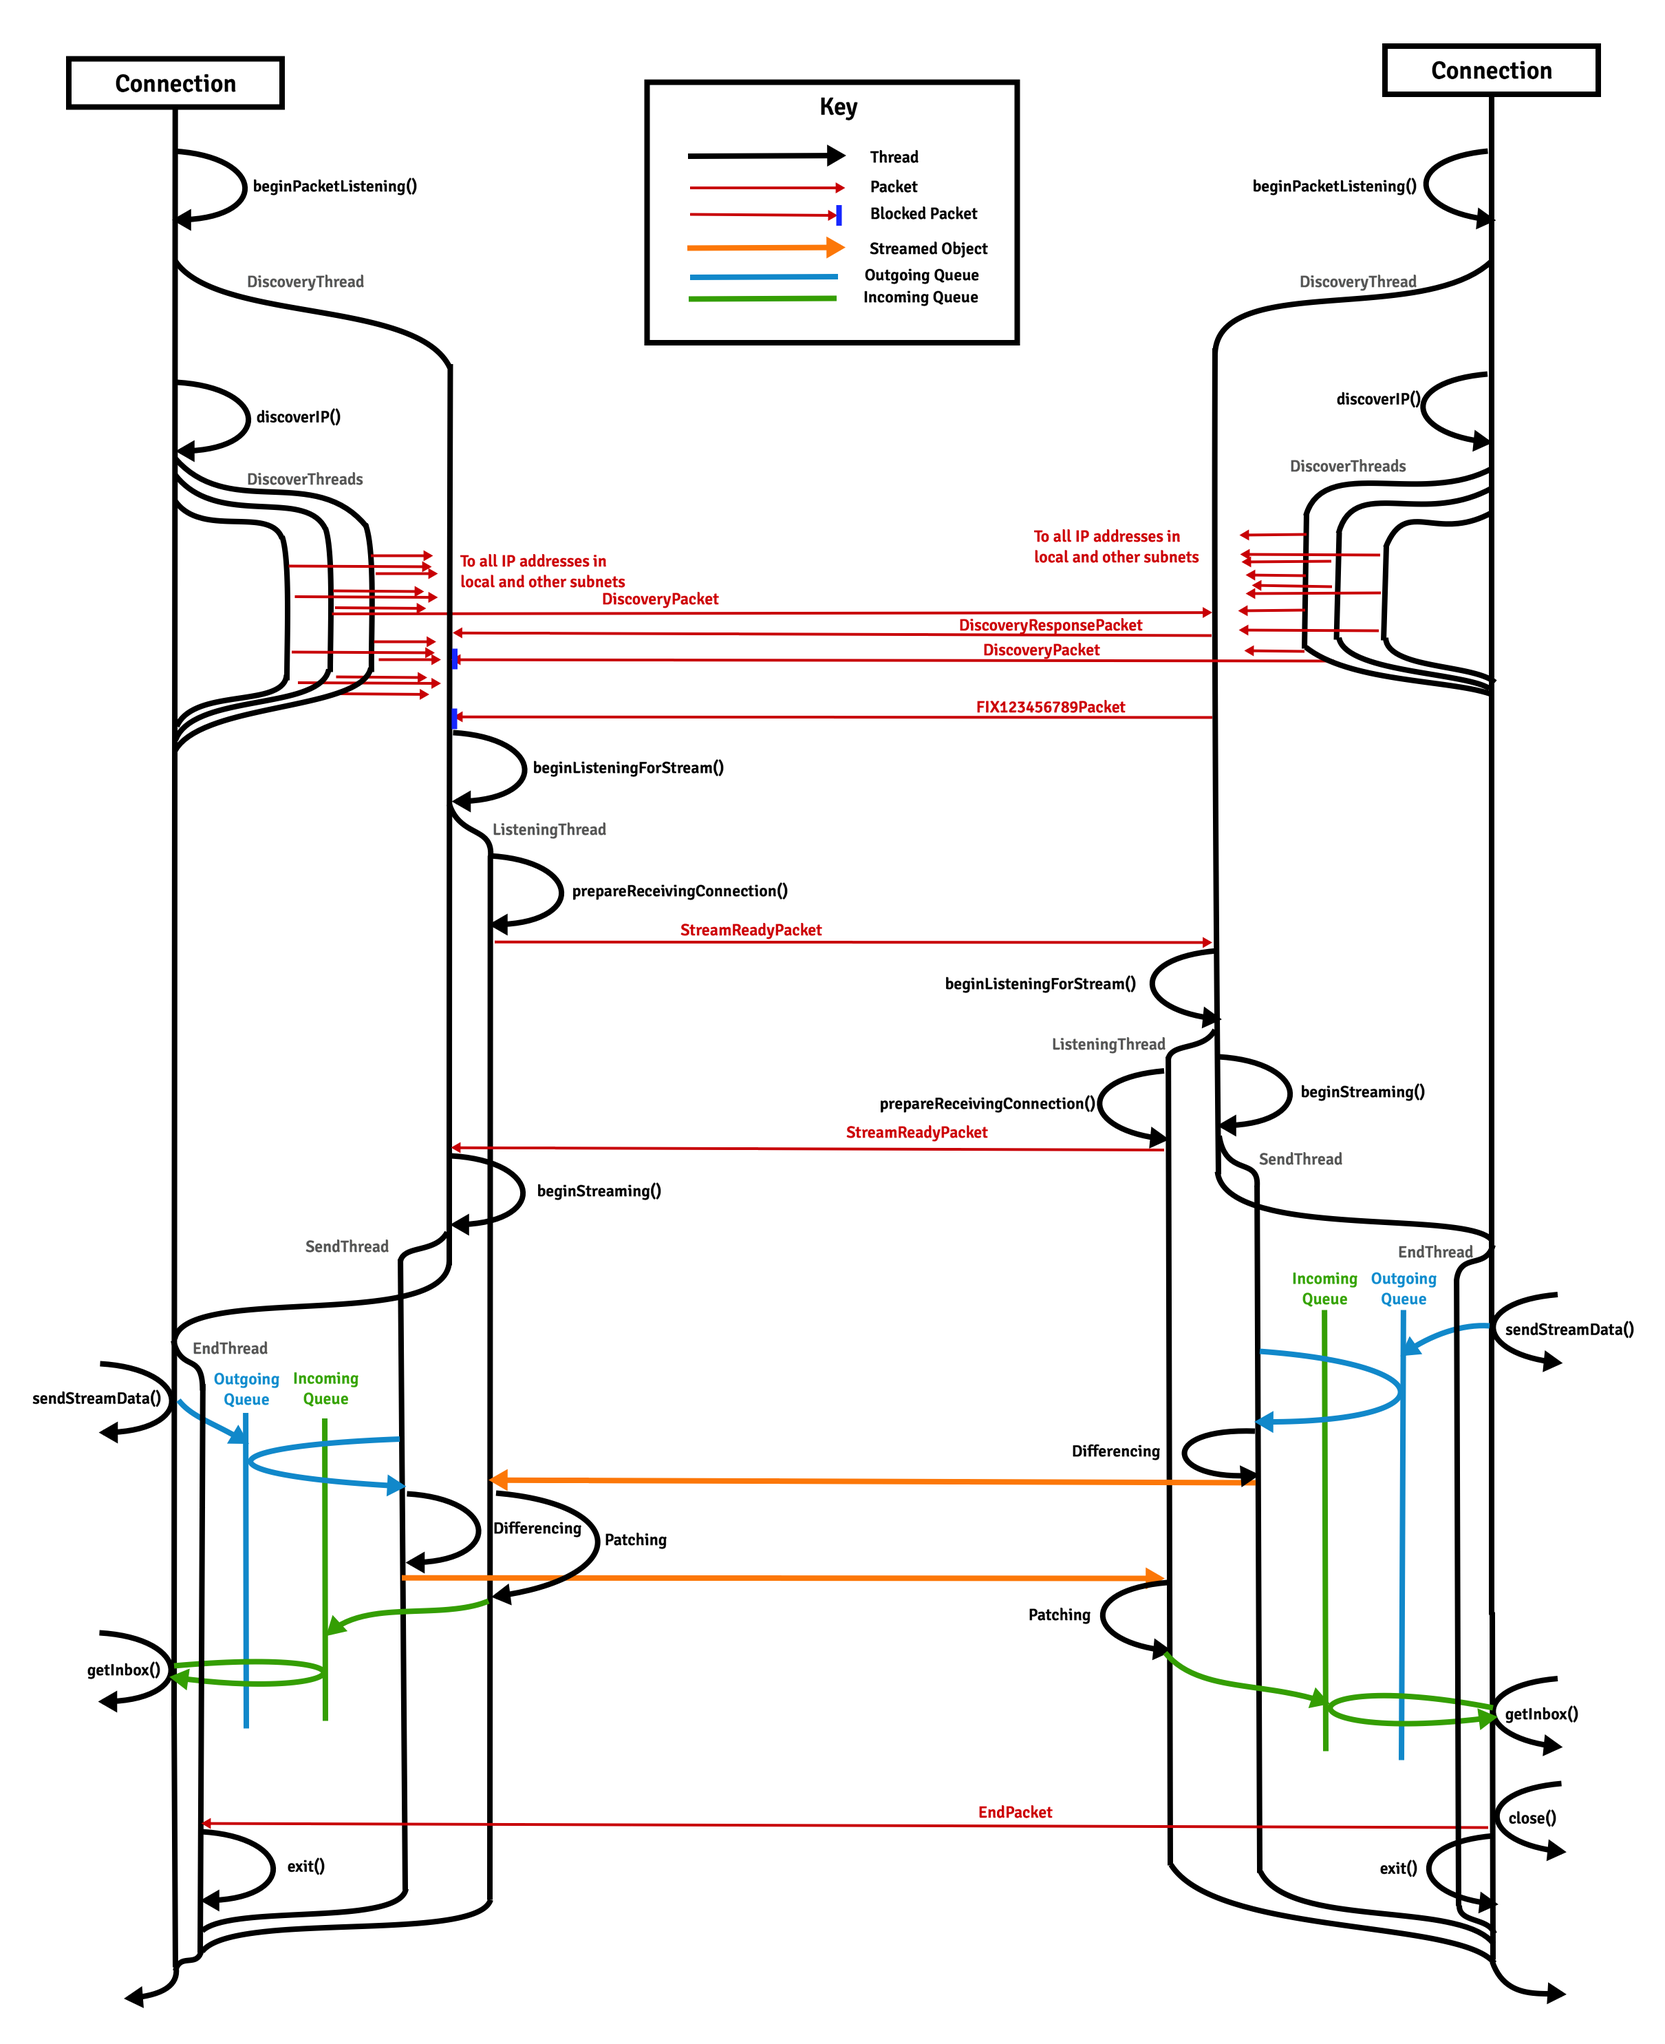
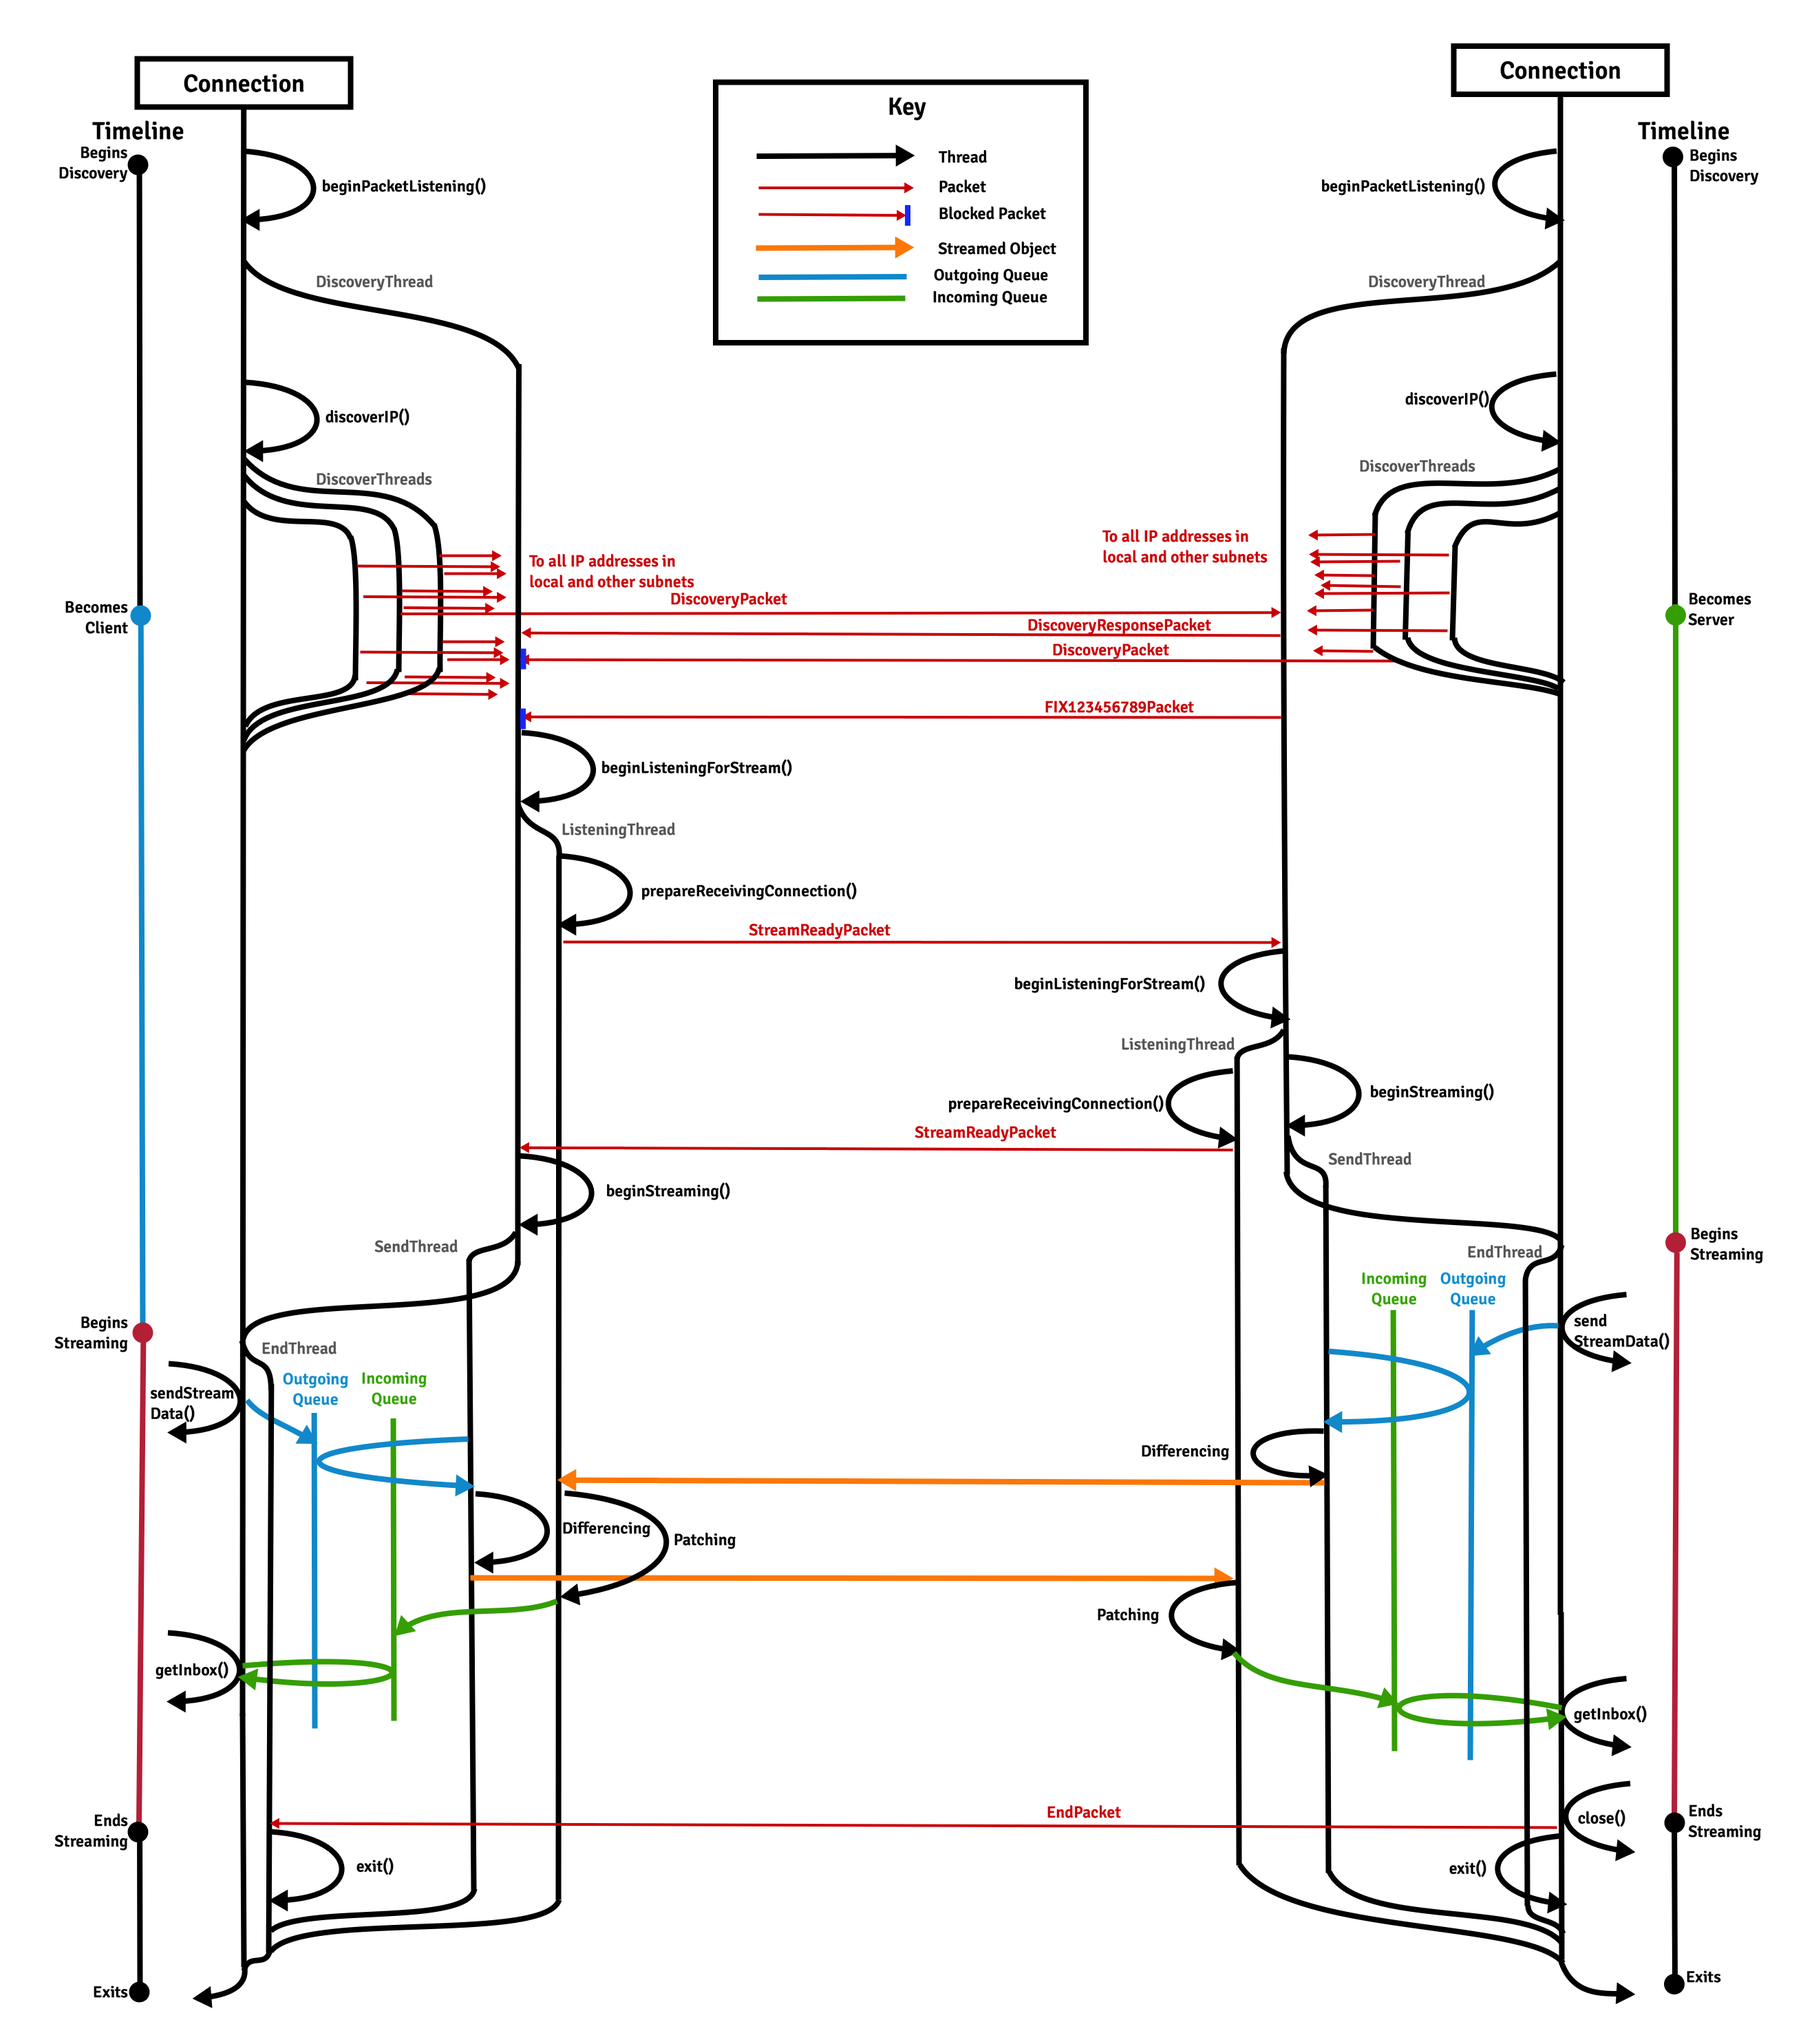
Fixed bug in connection, added additional sequence level diagrams

diff --git a/src/Connection.java b/src/Connection.java
@@ -260,8 +260,8 @@ public class Connection {
                     		Long time = Long.parseLong(timestamp);
                     		
                     		// Compare the timestamp with the timestamp this computer took
-                    		if(Connection.this.fixTime > time){
-                    			// This computer received the message second
+                    		if(Connection.this.fixTime < time){
+                    			// This computer received the message first
                     			// Convert this to client
                     			System.out.println("Converting to Client");
                     			// Set the server flag
